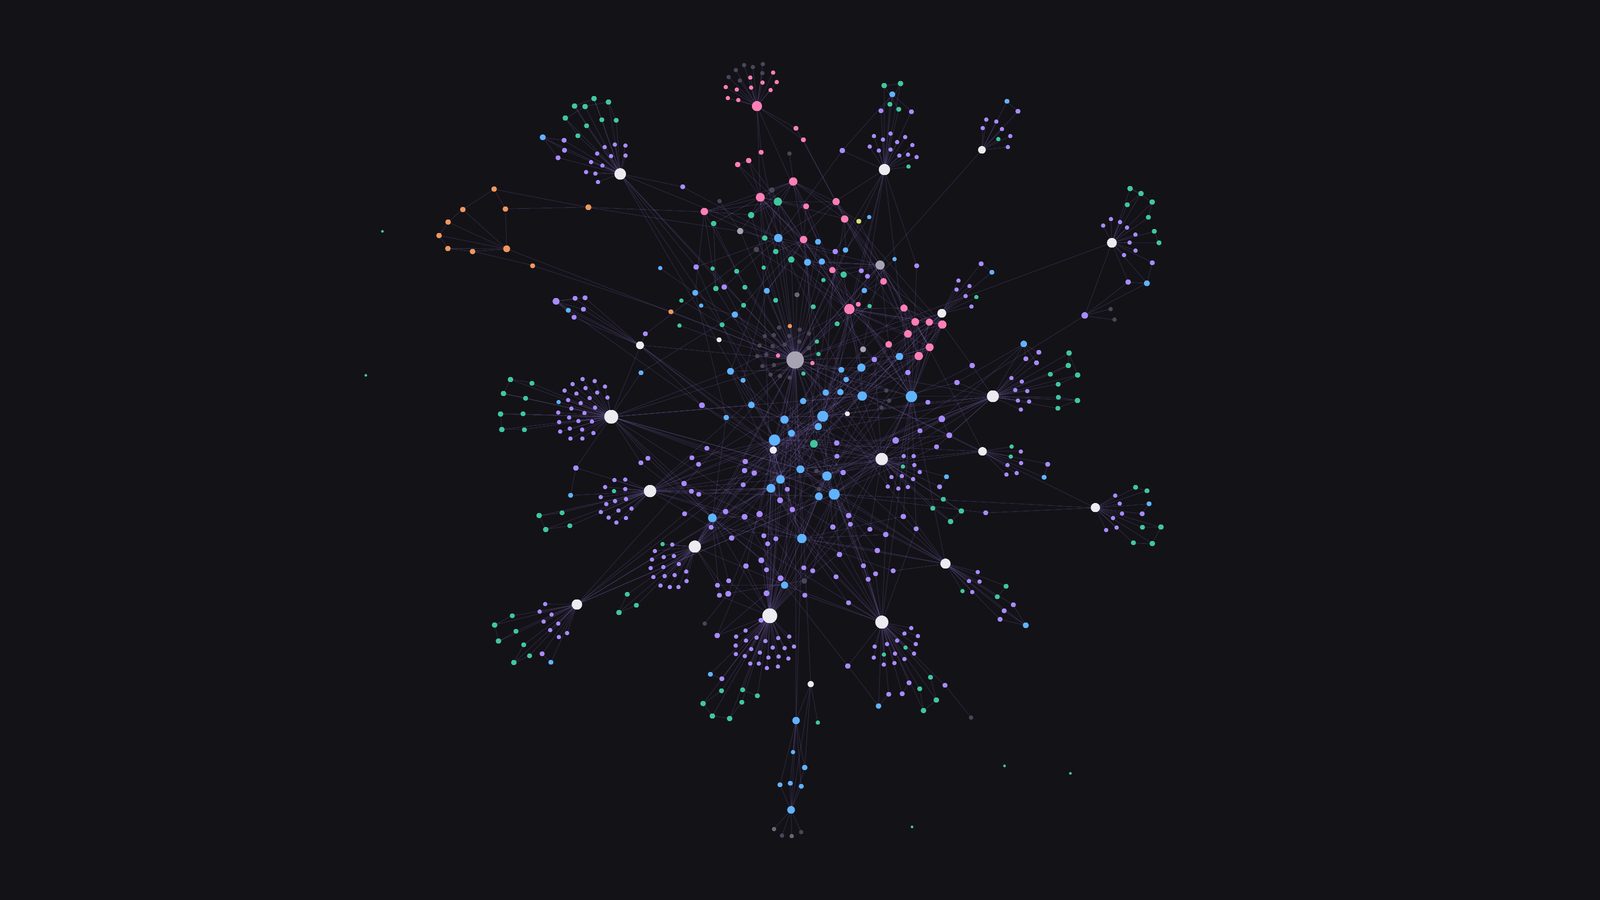
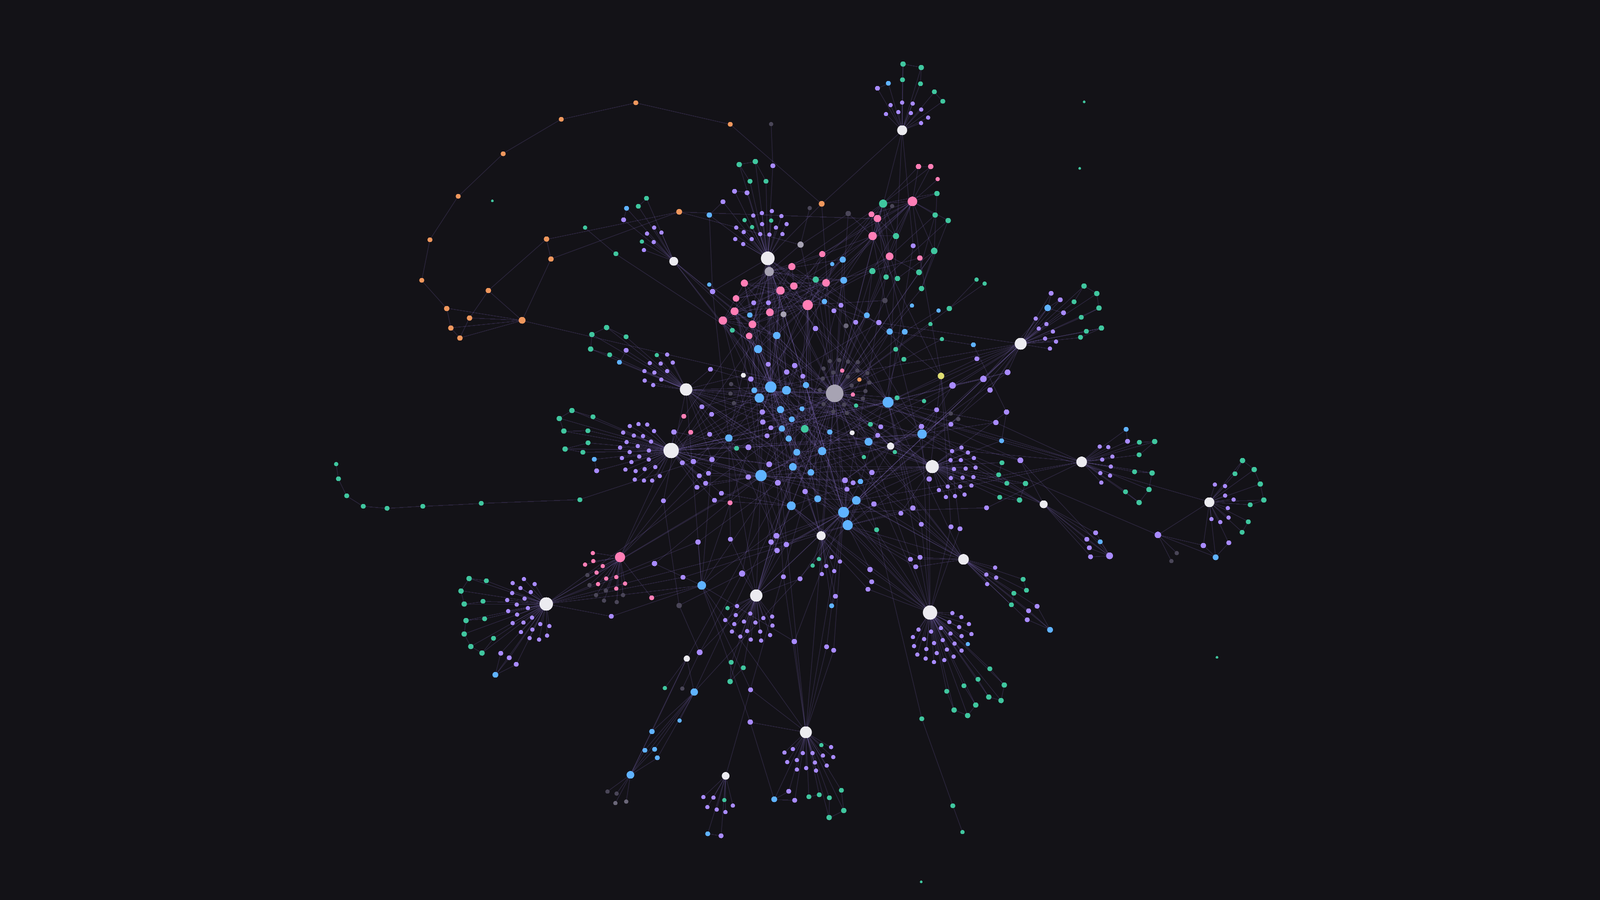
docs: regenerate vault graph and diagrams

diff --git a/README.md b/README.md
@@ -20,6 +20,20 @@ CI regenerates these (`.github/workflows/visual-docs.yml`) and opens a PR when t
 
 <!-- Generated by scripts/visual-docs-readme.mjs — edit the source files, not this block. -->
 
+### Diagrams
+
+**Routine pipeline** — [`docs/diagrams/routine-pipeline.svg`](./docs/diagrams/routine-pipeline.svg) · source [`docs/diagrams/routine-pipeline.mmd`](./docs/diagrams/routine-pipeline.mmd)
+
+![Routine pipeline](./docs/diagrams/routine-pipeline.svg)
+
+**Showcase loop** — [`docs/diagrams/showcase-loop.svg`](./docs/diagrams/showcase-loop.svg) · source [`docs/diagrams/showcase-loop.mmd`](./docs/diagrams/showcase-loop.mmd)
+
+![Showcase loop](./docs/diagrams/showcase-loop.svg)
+
+**Vault graph render** — [`docs/diagrams/vault-graph-render.svg`](./docs/diagrams/vault-graph-render.svg) · source [`docs/diagrams/vault-graph-render.mmd`](./docs/diagrams/vault-graph-render.mmd)
+
+![Vault graph render](./docs/diagrams/vault-graph-render.svg)
+
 ### Screenshots
 
 **Vault graph** — [`docs/screenshots/vault-graph.png`](./docs/screenshots/vault-graph.png)
